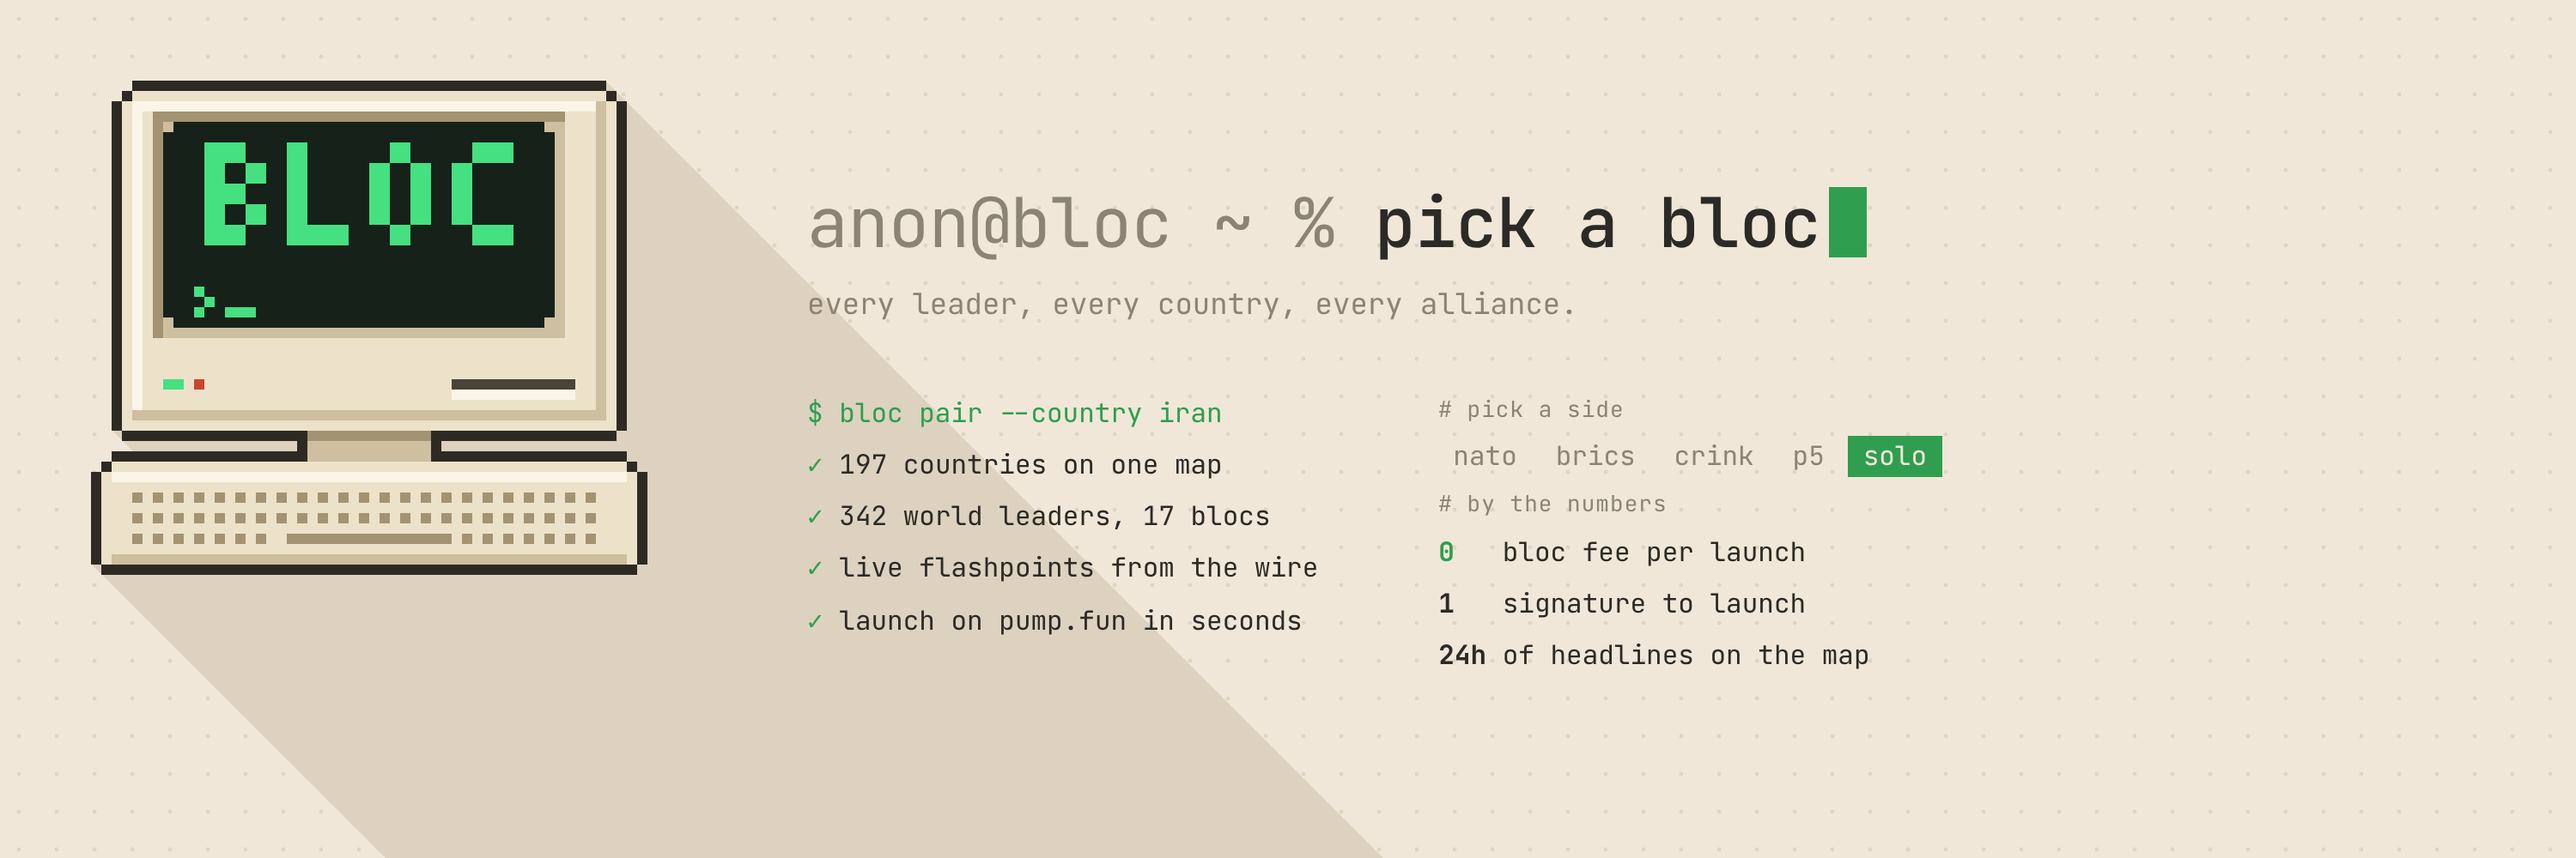
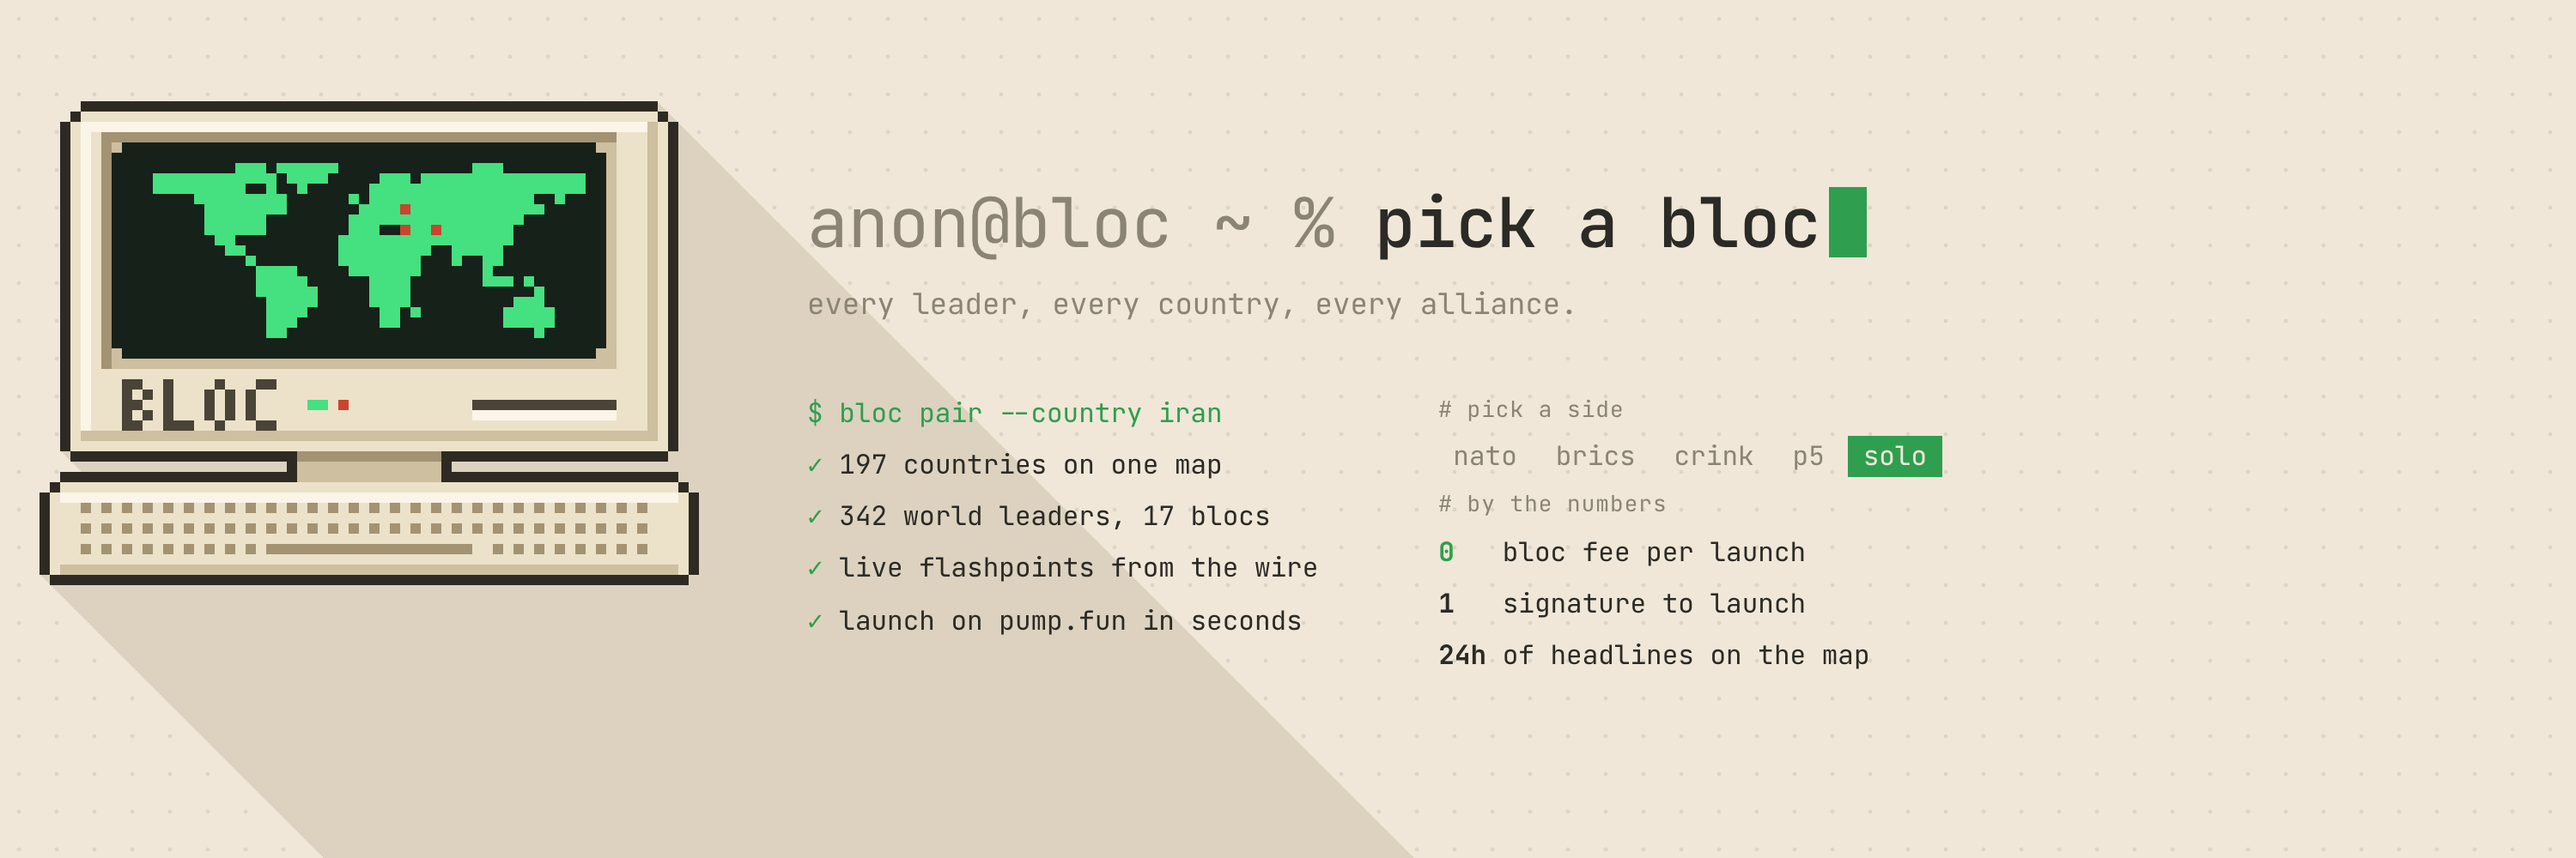
worldpc: the pixel computer shows the world map
New termkit object: phosphor world map on the screen with red war
flashpoints, BLOC on the case. Used for logo, hero, favicon, og and
the X graphics in grafik/. Adds the X copy kit in brand/x.

Claude-Session: https://claude.ai/code/session_011kkDhG4oRgGzMEGp7h8Mtp

Changed region(s): [[0.0, 0.093, 0.372, 1.0], [0.372, 0.496, 0.558, 1.0]]

diff --git a/grafik/termkit.js b/grafik/termkit.js
@@ -92,6 +92,65 @@ const TK = (() => {
       g.outline();
       return g;
     },
+    // BLOC: the computer with the world on its screen. Land in phosphor, war flashpoints in red, the name on the case.
+    worldpc({ ticker = "" } = {}) {
+      const MAP = [
+        "..........###.######.............###........",
+        "..############.####.....###.################",
+        "..#########..#..#......#####################",
+        "......#########......#.################..#..",
+        ".......########.......##################....",
+        ".......######........#################......",
+        ".......######........###..###########.......",
+        "........##..........#################.......",
+        ".........##.........#########..#####........",
+        "...........#........########...#..##........",
+        "............####.....#######......#.........",
+        "............#####......####.......###.#.....",
+        "............######.....####............#....",
+        ".............#####.....####..........###....",
+        ".............####.......##.#........#####...",
+        ".............###........##..........#####...",
+        ".............##........................#....",
+      ];
+      const HOT = [[26, 4], [26, 6], [29, 6]];            // ukraine, israel, iran
+      const t = ticker.replace(/^\$/, "").toUpperCase();
+      const sw = MAP[0].length + 4, sh = MAP.length + 4;  // screen with a 2-cell margin
+      const mw = sw + 10, mh = sh + 12;
+      const W = mw + 6, H = mh + 14, g = Grid(W, H);
+      const mx = 3, my = 1, sx = mx + 4, sy = my + 3;
+      // monitor housing
+      g.rect(mx, my, mw, mh, "body"); g.set(mx, my, null); g.set(mx + mw - 1, my, null);
+      g.rect(mx + 1, my + 1, mw - 2, 1, "hi"); g.rect(mx + 1, my + 1, 1, mh - 3, "hi");
+      g.rect(mx + mw - 2, my + 1, 1, mh - 2, "shade"); g.rect(mx + 1, my + mh - 2, mw - 2, 1, "shade");
+      // bezel + screen
+      g.rect(sx - 1, sy - 1, sw + 2, sh + 2, "shade"); g.rect(sx - 1, sy - 1, sw + 2, 1, "dark"); g.rect(sx - 1, sy - 1, 1, sh + 2, "dark");
+      g.rect(sx, sy, sw, sh, "screen");
+      [[sx, sy], [sx + sw - 1, sy], [sx, sy + sh - 1], [sx + sw - 1, sy + sh - 1]].forEach(([x, y]) => g.set(x, y, "shade"));
+      // the world, in phosphor
+      MAP.forEach((row, j) => [...row].forEach((ch, i) => { if (ch === "#") g.set(sx + 2 + i, sy + 2 + j, "glow"); }));
+      HOT.forEach(([x, y]) => g.set(sx + 2 + x, sy + 2 + y, "red"));
+      // chin: the name on the case, led, floppy slot
+      const py = my + mh - 7;
+      g.text(t, mx + 5, py, "slot");
+      const lx = mx + 5 + textWidth(t) + 3;
+      g.rect(lx, py + 2, 2, 1, "led"); g.set(lx + 3, py + 2, "red");
+      const fw = 14; g.rect(mx + mw - 5 - fw, py + 2, fw, 1, "slot"); g.rect(mx + mw - 5 - fw, py + 3, fw, 1, "hi");
+      // neck
+      const ny = my + mh, nx = mx + Math.floor(mw / 2) - 7;
+      g.rect(nx, ny, 14, 3, "shade"); g.rect(nx, ny, 14, 1, "dark");
+      // keyboard slab
+      const kx = 1, kw = W - 2, ky = ny + 3, kh = 9;
+      g.rect(kx, ky, kw, kh, "body"); g.set(kx, ky, null); g.set(kx + kw - 1, ky, null);
+      g.rect(kx + 1, ky + 1, kw - 2, 1, "hi"); g.rect(kx + 1, ky + kh - 1, kw - 2, 1, "shade");
+      const k0 = kx + 3 + ((kw - 6) % 2 ? 1 : 0), k1 = kx + kw - 3;
+      for (let x = k0; x < k1; x += 2) { g.set(x, ky + 2, "dark"); g.set(x, ky + 4, "dark"); }
+      const mid = kx + Math.floor(kw / 2);
+      for (let x = k0; x < k1; x += 2) if (x < mid - 11 || x > mid + 10) g.set(x, ky + 6, "dark");
+      g.rect(mid - 10, ky + 6, 20, 1, "dark");
+      g.outline();
+      return g;
+    },
     // Example of a custom object: a framed token with a halo. Copy this pattern for new narratives.
     frame({ ticker = "" } = {}) {
       const g = Grid(30, 38), t = ticker.replace(/^\$/, "").toUpperCase().slice(0, 1);

diff --git a/public/termkit.js b/public/termkit.js
@@ -92,6 +92,65 @@ const TK = (() => {
       g.outline();
       return g;
     },
+    // BLOC: the computer with the world on its screen. Land in phosphor, war flashpoints in red, the name on the case.
+    worldpc({ ticker = "" } = {}) {
+      const MAP = [
+        "..........###.######.............###........",
+        "..############.####.....###.################",
+        "..#########..#..#......#####################",
+        "......#########......#.################..#..",
+        ".......########.......##################....",
+        ".......######........#################......",
+        ".......######........###..###########.......",
+        "........##..........#################.......",
+        ".........##.........#########..#####........",
+        "...........#........########...#..##........",
+        "............####.....#######......#.........",
+        "............#####......####.......###.#.....",
+        "............######.....####............#....",
+        ".............#####.....####..........###....",
+        ".............####.......##.#........#####...",
+        ".............###........##..........#####...",
+        ".............##........................#....",
+      ];
+      const HOT = [[26, 4], [26, 6], [29, 6]];            // ukraine, israel, iran
+      const t = ticker.replace(/^\$/, "").toUpperCase();
+      const sw = MAP[0].length + 4, sh = MAP.length + 4;  // screen with a 2-cell margin
+      const mw = sw + 10, mh = sh + 12;
+      const W = mw + 6, H = mh + 14, g = Grid(W, H);
+      const mx = 3, my = 1, sx = mx + 4, sy = my + 3;
+      // monitor housing
+      g.rect(mx, my, mw, mh, "body"); g.set(mx, my, null); g.set(mx + mw - 1, my, null);
+      g.rect(mx + 1, my + 1, mw - 2, 1, "hi"); g.rect(mx + 1, my + 1, 1, mh - 3, "hi");
+      g.rect(mx + mw - 2, my + 1, 1, mh - 2, "shade"); g.rect(mx + 1, my + mh - 2, mw - 2, 1, "shade");
+      // bezel + screen
+      g.rect(sx - 1, sy - 1, sw + 2, sh + 2, "shade"); g.rect(sx - 1, sy - 1, sw + 2, 1, "dark"); g.rect(sx - 1, sy - 1, 1, sh + 2, "dark");
+      g.rect(sx, sy, sw, sh, "screen");
+      [[sx, sy], [sx + sw - 1, sy], [sx, sy + sh - 1], [sx + sw - 1, sy + sh - 1]].forEach(([x, y]) => g.set(x, y, "shade"));
+      // the world, in phosphor
+      MAP.forEach((row, j) => [...row].forEach((ch, i) => { if (ch === "#") g.set(sx + 2 + i, sy + 2 + j, "glow"); }));
+      HOT.forEach(([x, y]) => g.set(sx + 2 + x, sy + 2 + y, "red"));
+      // chin: the name on the case, led, floppy slot
+      const py = my + mh - 7;
+      g.text(t, mx + 5, py, "slot");
+      const lx = mx + 5 + textWidth(t) + 3;
+      g.rect(lx, py + 2, 2, 1, "led"); g.set(lx + 3, py + 2, "red");
+      const fw = 14; g.rect(mx + mw - 5 - fw, py + 2, fw, 1, "slot"); g.rect(mx + mw - 5 - fw, py + 3, fw, 1, "hi");
+      // neck
+      const ny = my + mh, nx = mx + Math.floor(mw / 2) - 7;
+      g.rect(nx, ny, 14, 3, "shade"); g.rect(nx, ny, 14, 1, "dark");
+      // keyboard slab
+      const kx = 1, kw = W - 2, ky = ny + 3, kh = 9;
+      g.rect(kx, ky, kw, kh, "body"); g.set(kx, ky, null); g.set(kx + kw - 1, ky, null);
+      g.rect(kx + 1, ky + 1, kw - 2, 1, "hi"); g.rect(kx + 1, ky + kh - 1, kw - 2, 1, "shade");
+      const k0 = kx + 3 + ((kw - 6) % 2 ? 1 : 0), k1 = kx + kw - 3;
+      for (let x = k0; x < k1; x += 2) { g.set(x, ky + 2, "dark"); g.set(x, ky + 4, "dark"); }
+      const mid = kx + Math.floor(kw / 2);
+      for (let x = k0; x < k1; x += 2) if (x < mid - 11 || x > mid + 10) g.set(x, ky + 6, "dark");
+      g.rect(mid - 10, ky + 6, 20, 1, "dark");
+      g.outline();
+      return g;
+    },
     // Example of a custom object: a framed token with a halo. Copy this pattern for new narratives.
     frame({ ticker = "" } = {}) {
       const g = Grid(30, 38), t = ticker.replace(/^\$/, "").toUpperCase().slice(0, 1);

diff --git a/src/lib/coinImage.ts b/src/lib/coinImage.ts
@@ -1,4 +1,5 @@
 import { drawMiniMap } from '../components/DotMap';
+import { CONFIG } from '../config';
 import { COLS, ROWS, COUNTRIES, BLOC_MEMBERS, COUNTRY_INDEX, alignmentOf, type Subject } from './world';
 import { ALIGN, BLOC_BY_CODE } from './blocs';
 
@@ -95,7 +96,7 @@ export async function renderCoinImage(canvas: HTMLCanvasElement, s: Subject, tic
   ctx.fillStyle = MUTED;
   ctx.fillText(fit(ctx, line, 870 * u), 66 * u, 885 * u);
   if (typeof TK !== 'undefined') {
-    const g = TK.OBJECTS.computer({ ticker: '$BLOC' });
+    const g = TK.OBJECTS[CONFIG.object]({ ticker: CONFIG.ticker });
     const cellPx = Math.max(1, Math.floor(46 * u / g.h));
     TK.draw(ctx, g, { theme: 'paper', cell: cellPx, x: 66 * u, y: 914 * u, shadow: false });
     ctx.fillStyle = INK; ctx.font = `500 ${22 * u}px ${MONO}`;

diff --git a/src/config.ts b/src/config.ts
@@ -2,7 +2,7 @@
 export const CONFIG = {
   ticker: '$BLOC',
   // pixel object drawn by termkit.js (same as pfp/banner/favicon)
-  object: 'computer',
+  object: 'worldpc',
   // $BLOC contract address. Leave empty to hide the CA chip.
   ca: '',
   // X profile URL, e.g. https://x.com/pickabloc. Leave empty to hide.

diff --git a/brand/x/x-copy.md b/brand/x/x-copy.md
@@ -1,0 +1,120 @@
+# $BLOC — X kit
+
+## Domain + handle
+Domains (best first): pickabloc.fun · blocpad.fun · usebloc.app · blocmap.xyz · worldbloc.fun
+Handles (best first): @pickabloc · @blocpad · @usebloc · @blocmap
+Display name: bloc
+Website field (fill in at launch only): pickabloc.fun
+Location: The world stage
+
+## Core line (not posted)
+$BLOC is a world-politics launchpad: click any country on a live map and pair a pump.fun coin to its leader, the country itself, or one of 17 blocs like NATO, BRICS and CRINK.
+
+## Bio
+Manifest:
+Every war, every election, every alliance. A live map of 197 countries where you pair a coin to any leader, country or bloc. NATO, BRICS, CRINK and 14 more.
+
+Overview:
+Pair a memecoin to any world leader, country or bloc.
+· The map: 197 countries, 342 leaders
+· The wire: today's flashpoints
+· 17 blocs, NATO to CRINK
+
+## Pre-launch
+### 1. Reveal (pin) — today, evening
+Every headline this week is a war or an election.
+
+The trenches already trade it. A coin for the war, a coin for the peace, a coin for whoever made the news today. Launched by hand, one name at a time.
+
+$BLOC puts the whole board on one map.
+
+197 countries. 342 world leaders. 17 blocs, from NATO and BRICS to CRINK and the Nuclear 9.
+
+Click a country, see who runs it, pair a coin to them. Or skip the person and pair the alliance.
+
+Launching on pump.fun [tid].
+
+### 2. Inside — tomorrow, afternoon
+Click Iran on the map.
+
+A window opens: the supreme leader and the president, the four blocs Iran sits in, the last 24 hours of headlines that name it, and every Solana coin already using the name.
+
+One more click and the next one is yours.
+
+What's inside:
+- The map: 197 countries, colored by who sides with NATO and who sits in BRICS
+- The wire: war and politics headlines from the last 24h, counted by country, refreshed every 10 min
+- The blocs: 17 alliances, cartels and pacts, each one a coin
+- The launcher: search 342 leaders, get a ticker and a coin card drawn from the map
+
+Every president, prime minister, king and supreme leader is one search away.
+
+### 3. Why now + last call — 30–90 min before launch
+[tid]. pump.fun.
+
+The world is choosing sides in public. Election week in the US, talk of new strikes, alliances on every front page, and nowhere to put a coin on all of it at once.
+
+Until now. One map, every leader, every country, every bloc.
+
+You don't need to know the news to use it. The wire on the map shows where the headlines point, so the hottest names are the brightest dots.
+
+The contract address and the link will only ever come from this account. Anything else is not us.
+
+## Launch (pin instead of the reveal)
+$BLOC is live.
+
+A live world map where you pair a pump.fun coin to any of 342 world leaders, any of 197 countries, or one of 17 blocs. NATO, BRICS, CRINK, the Nuclear 9.
+
+Pick a side. Launch it.
+
+[länk]
+
+What's on the site:
+→ The map: click any country to see who runs it and which blocs it's in
+→ Flashpoints: the map lights up where the last 24h of headlines point
+→ The blocs: 17 alliances, cartels and pacts, one coin each
+→ The launcher: search a name, get a ticker and a coin card drawn from the map
+
+How it works:
+Pick a subject and BLOC suggests the ticker and draws the image. No portraits, ever.
+Every description ends with a line saying the coin isn't affiliated with who it's paired to.
+BLOC takes no fee. Creator fees go to the wallet that launched the coin.
+
+Try it: switch the map to flashpoints, click the brightest country, and see who already paired it.
+
+The world picked sides. Your move.
+
+### Reply 1 — CA
+CA: [CA]
+
+This is the only $BLOC contract.
+
+## After launch
+### 1. First hours
+The only $BLOC contract:
+[CA]
+
+A live map of the world where every leader, country and alliance can be a coin.
+
+[länk]
+
+### 2. Day 1–2 — the wire
+Where is the world looking right now? BLOC counts it.
+
+The wire reads the last 24 hours of war and politics headlines and tallies every country they name. Switch the map to flashpoints and it glows where the news points. The seven hottest get radar rings.
+
+How it counts:
+- Headlines from news search feeds, refreshed every 10 minutes
+- A country counts when a headline names it, its capital, or the word people use for its government
+- Click a hot country to read the headlines behind the number
+
+It measures attention, not who is right.
+
+Try it: open the map, hit flashpoints, click the brightest dot.
+
+### 3. Day 2–3 — narrative + milestone
+[X] holders on $BLOC.
+
+BLOC doesn't pick a side. NATO and BRICS get the same map, the same launcher and the same rules. So does every country that sits in neither.
+
+The headlines will keep choosing sides for you. The map hands you all of them and lets you pick.
